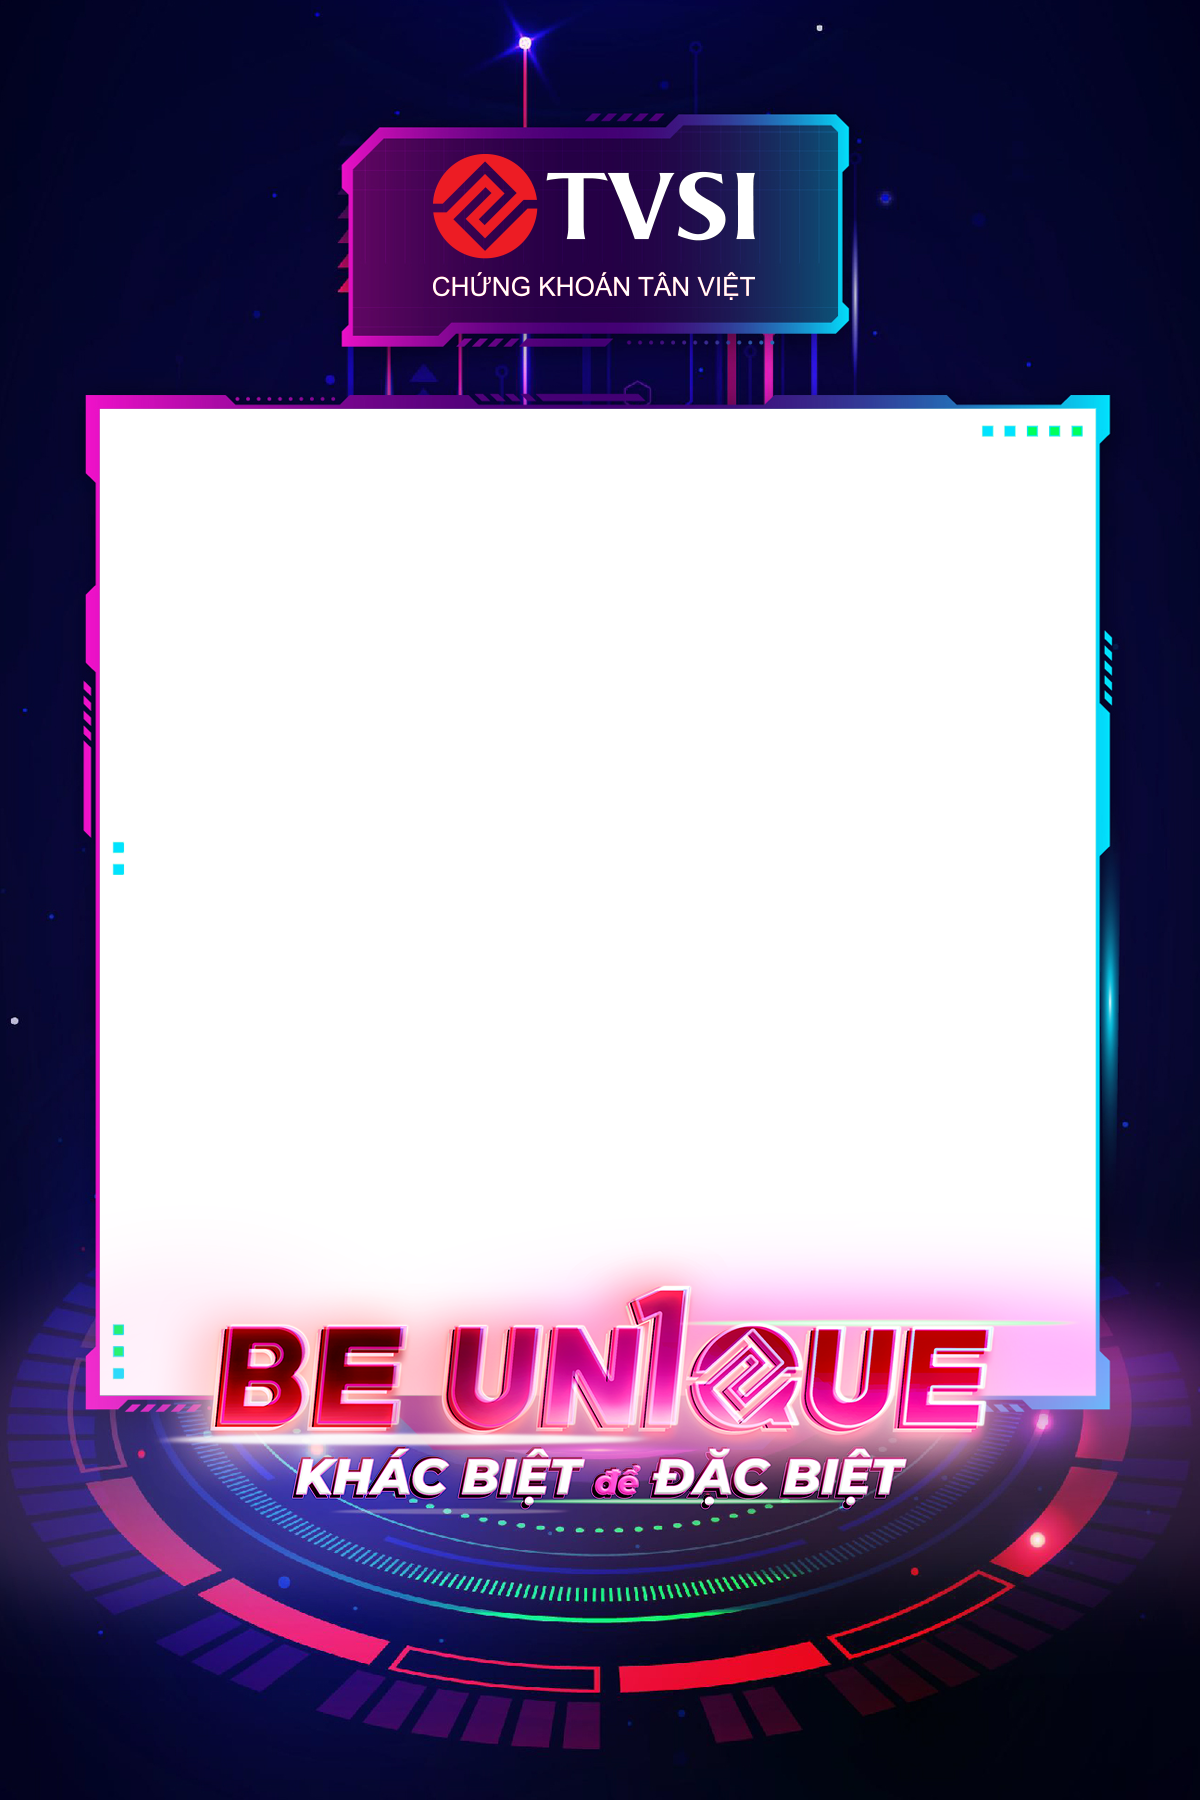
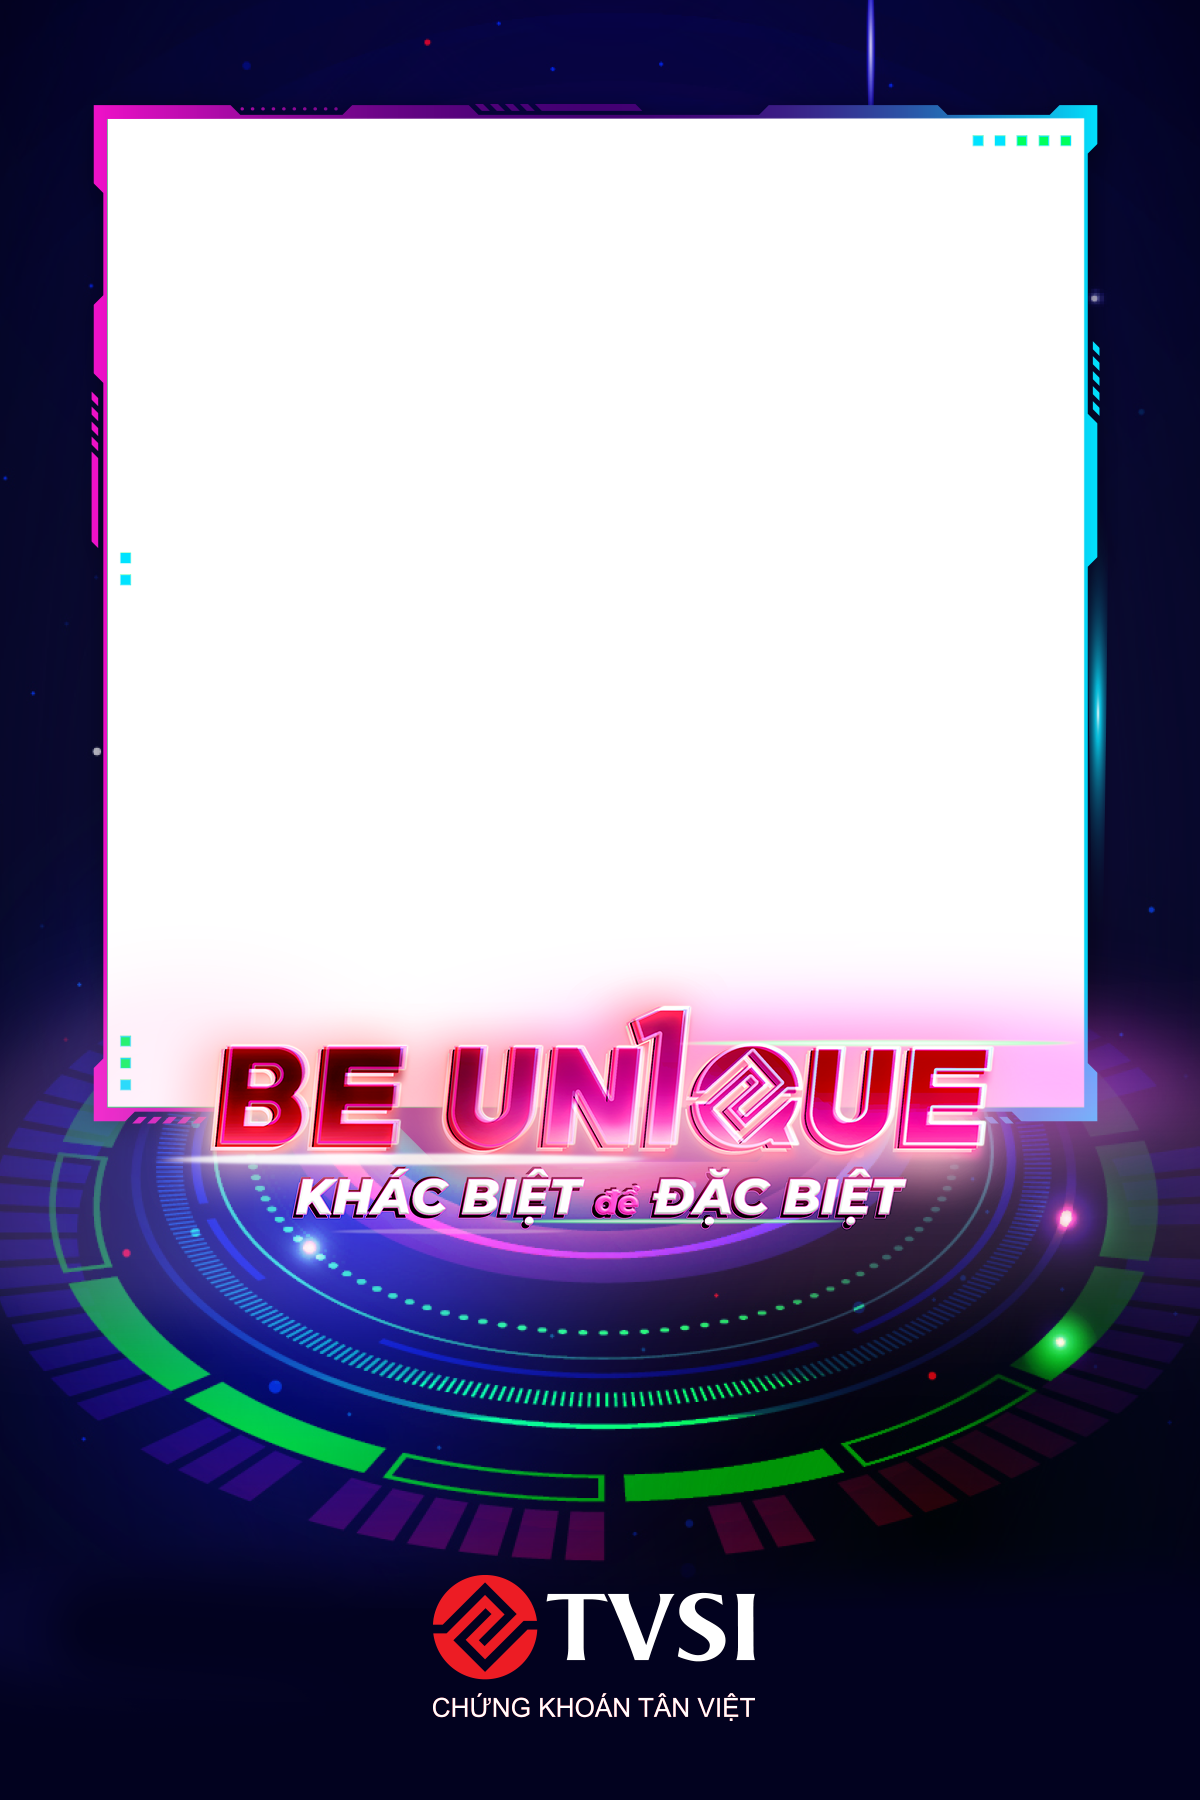
hotfix

diff --git a/source/sass/pages/_guide.scss b/source/sass/pages/_guide.scss
@@ -13,7 +13,6 @@
     display: inline-block;
     color: #fff;
     background: linear-gradient(to right, #5ccdfe, #d537e8);
-    // , #DE3C33, #D83DCD
     -webkit-background-clip: text;
     -webkit-text-fill-color: transparent;
     font-size: 2em;
@@ -40,6 +39,15 @@
       &:hover {
         color: $white;
       }
+    }
+
+    .text-gradient {
+      display: inline-block;
+      font-weight: 700;
+      color: #fff;
+      background: linear-gradient(to right, #5ccdfe, #d537e8);
+      -webkit-background-clip: text;
+      -webkit-text-fill-color: transparent;
     }
   }
 

diff --git a/source/js/_common.js b/source/js/_common.js
@@ -91,10 +91,10 @@
 
             if (index === 0) {
               let position = {
-                width: 0.833333,
-                height: 0.555484,
-                top: 0.222272,
-                left: 0.083333,
+                width: 0.813333,
+                height: 0.549444,
+                top: 0.066111,
+                left: 0.09,
               };
 
               if (image.width >= image.height) {

diff --git a/source/sass/pages/_intro.scss b/source/sass/pages/_intro.scss
@@ -29,12 +29,12 @@
 
   &__img {
     display: block;
-    width: 83.3333%;
-    height: 55.5484%;
     position: absolute;
     object-fit: cover;
-    left: 8.3333%;
-    top: 22.2272%;
+    width: 81.3333%;
+    height: 54.9444%;
+    left: 9%;
+    top: 6.6111%;
     object-position: 50% 50%;
   }
 

diff --git a/source/sass/pages/_frame.scss b/source/sass/pages/_frame.scss
@@ -88,10 +88,10 @@
 
   &__img {
     display: block;
-    width: 83.3333%;
-    height: 55.5484%;
-    left: 8.3333%;
-    top: 22.2272%;
+    width: 81.3333%;
+    height: 54.9444%;
+    left: 9%;
+    top: 6.6111%;
 
     img {
       position: absolute;
